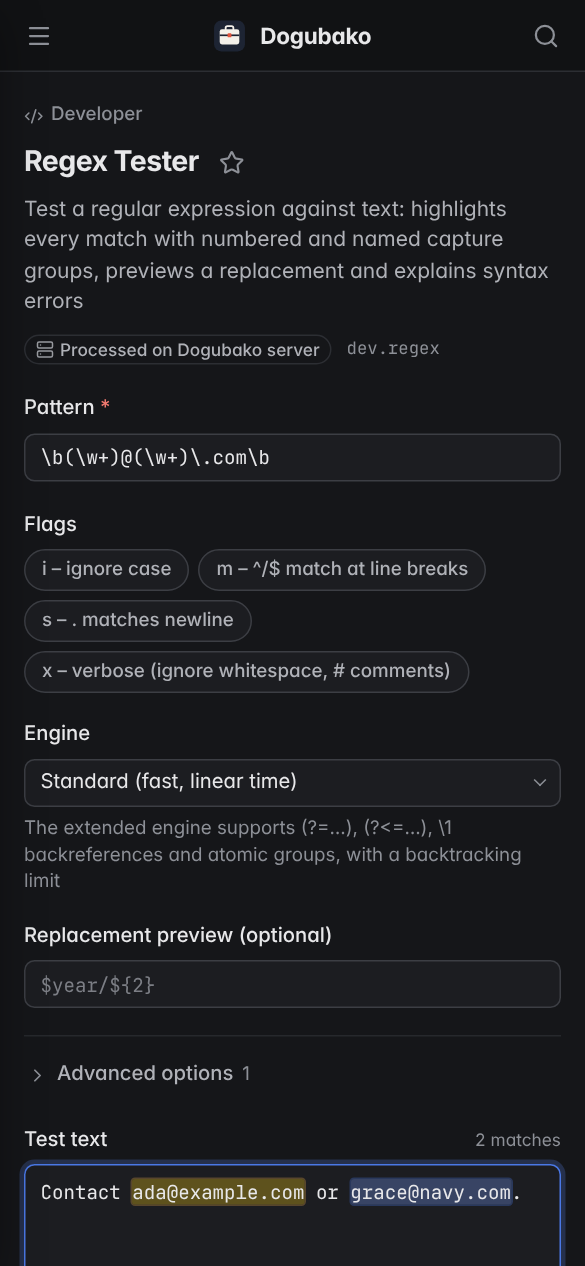
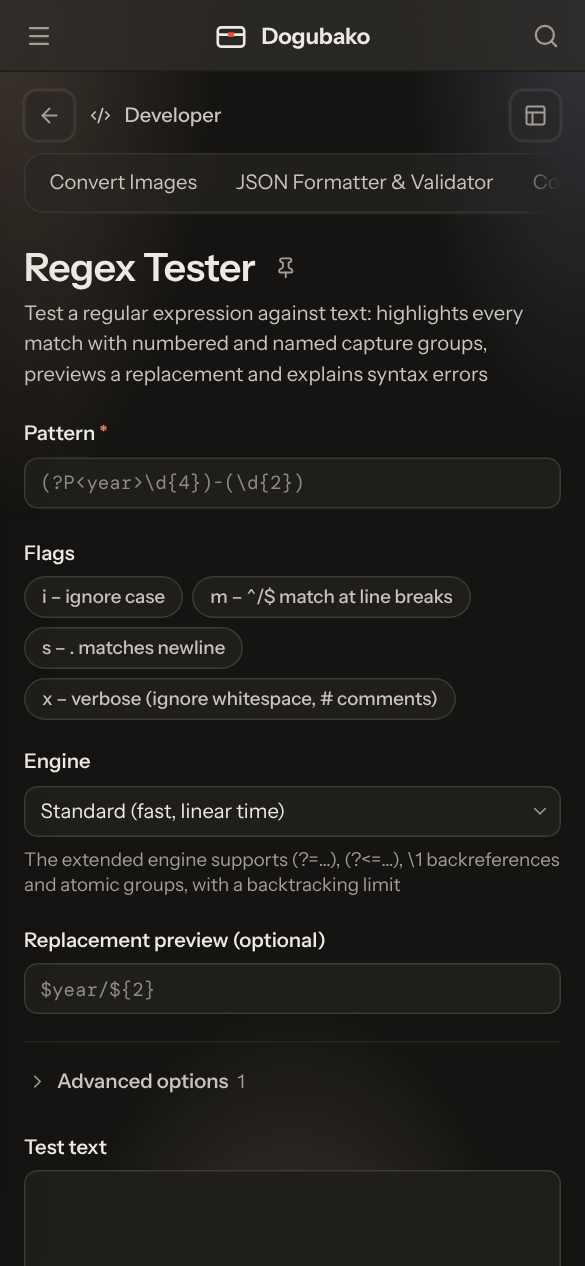
Refresh screenshots for the new design and show them in the README
Also: a frosted sticky run bar on special tools, no duplicate search on
phone tool pages, and a tighter file stack on the phone drop screen.

Claude-Session: https://claude.ai/code/session_01AMQFibsiGEVwxJtkuBv8Ns

diff --git a/web/src/styles/tool.css b/web/src/styles/tool.css
@@ -35,7 +35,8 @@
 /* ---------------------------------------------------------------- run bar */
 .run-bar {
   position: sticky; bottom: 0; z-index: 3; display: flex; align-items: center; gap: 14px; flex-wrap: wrap;
-  margin: -4px 0 0; padding: 12px 0; background: var(--bg);
+  margin: -4px -12px 0; padding: 10px 12px; border-radius: var(--r-lg);
+  background: var(--glass-strong); backdrop-filter: var(--glass-blur); -webkit-backdrop-filter: var(--glass-blur);
 }
 .run-bar-main { display: flex; align-items: center; gap: 8px; }
 .run-bar-main .btn-primary { min-width: 92px; }

diff --git a/web/src/styles/toolpage.css b/web/src/styles/toolpage.css
@@ -135,8 +135,10 @@
   .tool-page { padding-top: 12px; }
   .tool-row { flex-wrap: wrap; gap: 8px 10px; }
   .tool-tabs { order: 5; flex: 1 0 100%; }
-  .tool-subject { flex: 1; max-width: none; }
+  .tool-subject { flex: 0 1 auto; max-width: none; min-width: 0; }
+  .layout-wrap { margin-left: auto; }
   .tool-row-gap { display: none; }
+  .tool-search { display: none; } /* the phone top bar already has search */
   .stage.is-side { grid-template-columns: minmax(0, 1fr); }
   .stage-frame { height: clamp(180px, 34vh, 320px); }
   .tool-work .tool-controls { padding: 16px; }

diff --git a/web/src/styles/intent.css b/web/src/styles/intent.css
@@ -82,3 +82,8 @@
   .home-choose svg { width: 18px; height: 18px; }
   .intent-title { font-size: var(--fs-xl); }
 }
+@media (max-width: 520px) {
+  .intent-files.is-many .bo-photo { max-width: 62%; max-height: 170px; }
+  .intent-files.is-many .intent-thing { transform: translateX(calc((var(--i) - (var(--n) - 1) / 2) * 18px)) rotate(calc((var(--i) - (var(--n) - 1) / 2) * 3deg)); }
+  .intent-files { min-height: 180px; }
+}

diff --git a/README.md b/README.md
@@ -18,6 +18,17 @@ Nothing leaves your machine unless you host it yourself.
 * **Agent-ready, not agent-first.** Run a central server with all the heavy dependencies and give each AI agent its own scoped token: an image bot may resize and blur; a media bot may transcode and transcribe; neither can touch the other's files or your system tools.
 * **Secure by construction.** No shell is ever used; external programs run with timeouts, resource limits and optional bubblewrap sandboxing; files are id-addressed and owner-checked; network tools are SSRF-guarded; everything is audit-logged.
 
+## Screenshots
+
+<p align="center">
+  <img src="docs/screenshots/home-light.png" width="49%" alt="Home: a big input, the files you worked on lately drawn on a shelf, and recent runs">
+  <img src="docs/screenshots/drop-screen-light.png" width="49%" alt="After dropping a photo: what should happen to it, with the likeliest tools numbered">
+  <img src="docs/screenshots/tool-image-result-dark.png" width="49%" alt="Compressing a photo: original and result side by side with the size change, settings below">
+  <img src="docs/screenshots/tool-live-json-dark.png" width="49%" alt="JSON formatter: input on the left, formatted output and stats on the right as you type">
+</p>
+
+More in [docs/screenshots](docs/screenshots).
+
 ## What's inside
 
 | Category | Tools | Highlights |
